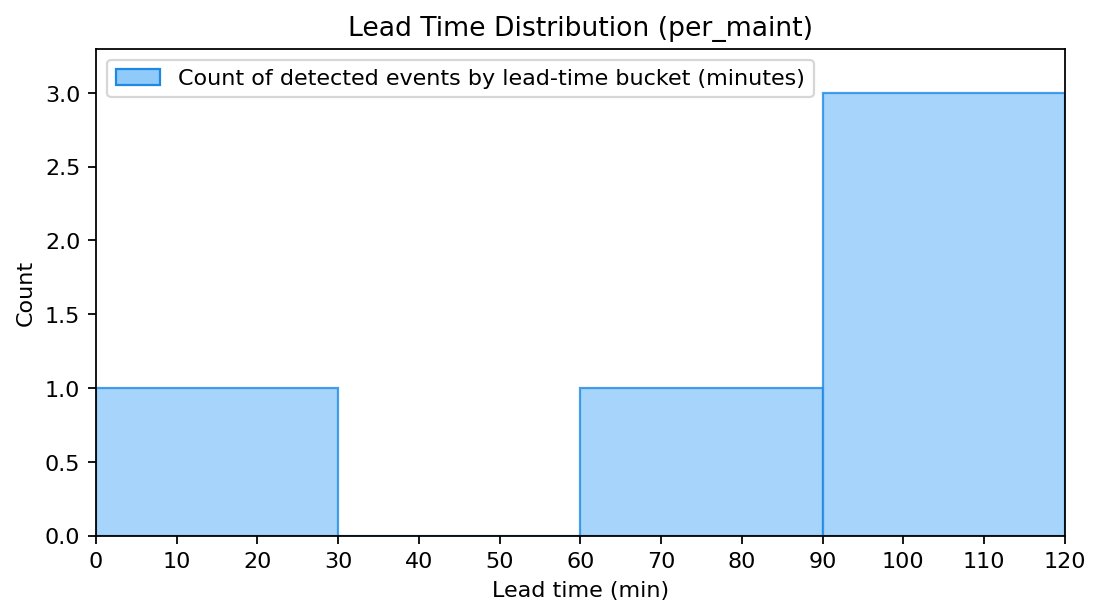
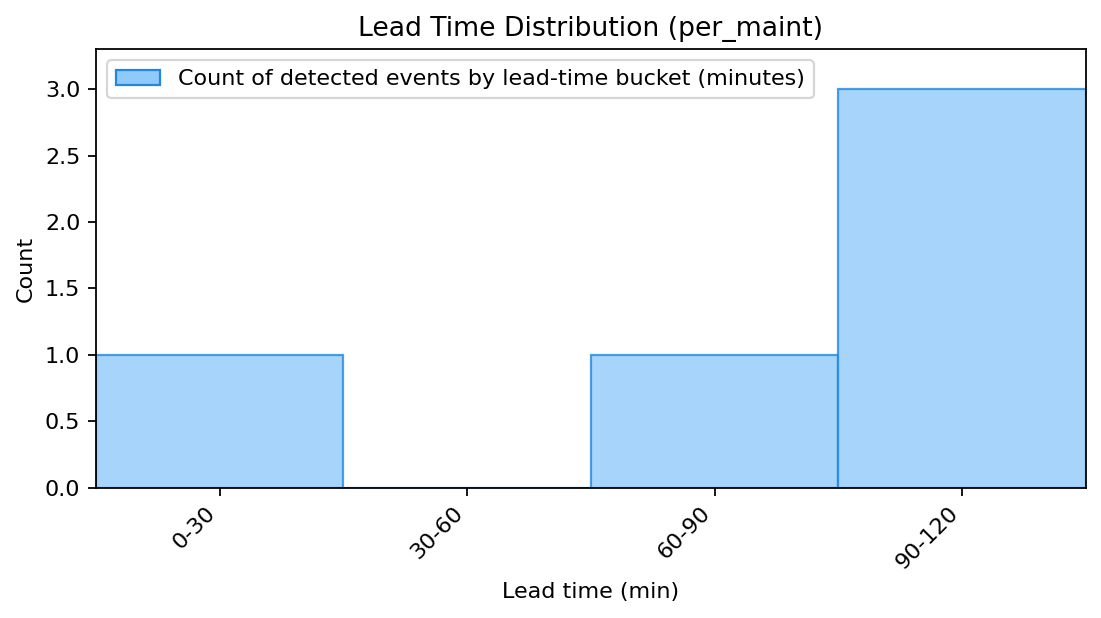
Updated output logs and graphs for easier understanding.

diff --git a/main.py b/main.py
@@ -86,7 +86,7 @@ SAVE_FEATURES_CSV_PATH: Optional[str] = "datasets/metropt3_features.csv"
 # - "single": one global model trained once on an early slice.
 # - "per_maint": per-maintenance models trained on fixed post-maintenance
 #   training days for each cycle (plus an initial pre-W1 model).
-EXPERIMENT_MODE: str = "per_maint"
+EXPERIMENT_MODE: str = "single"
 
 # Rolling window for feature aggregation (e.g., '600s' = 10 minutes).
 ROLLING_WINDOW: str = "60s"
@@ -412,43 +412,51 @@ def _print_event_extra_metrics(label: str, event_results: dict) -> None:
     if ttd.get("mean_ttd") is not None:
         print(
             f"TTD mean={ttd['mean_ttd']:.1f} min (std={ttd['std_ttd']:.1f}, "
-            f"min={ttd['min_ttd']:.1f}, max={ttd['max_ttd']:.1f})"
+            f"min={ttd['min_ttd']:.1f}, max={ttd['max_ttd']:.1f})  |  "
+            f"higher is better (earlier), max={PRE_MAINTENANCE_MINUTES} min"
         )
     else:
-        print("TTD mean=N/A (no detections)")
-    print(f"TTD detected={ttd.get('detected_events', 0)} missed={ttd.get('missed_events', 0)}")
+        print("TTD mean=N/A (no detections)  |  higher is better (earlier)")
+    print(
+        f"TTD detected={ttd.get('detected_events', 0)} "
+        f"missed={ttd.get('missed_events', 0)}  |  higher detected is better"
+    )
 
     if faa.get("first_alarm_accuracy") is not None:
         print(
             f"FAA={faa['first_alarm_accuracy']:.3f} "
-            f"({faa['first_alarm_in_window']}/{faa['tp_events']})"
+            f"({faa['first_alarm_in_window']}/{faa['tp_events']})  |  "
+            f"higher is better (ideal=1.0)"
         )
     else:
-        print("FAA=N/A")
+        print("FAA=N/A  |  higher is better (ideal=1.0)")
 
     if cov:
         print(
             f"Coverage={cov['alarm_coverage_percent']:.2f}% "
-            f"({cov['alarm_points']}/{cov['total_points']})"
+            f"({cov['alarm_points']}/{cov['total_points']})  |  "
+            f"lower is better (ideal≈0%)"
         )
 
     if mtia.get("mtia_minutes") is not None:
         print(
             f"MTIA mean={mtia['mtia_minutes']:.1f} min "
-            f"(std={mtia['std_minutes']:.1f}, intervals={mtia['num_intervals']})"
+            f"(std={mtia['std_minutes']:.1f}, intervals={mtia['num_intervals']})  |  "
+            f"lower is better"
         )
     else:
-        print("MTIA mean=N/A (no alarm intervals)")
+        print("MTIA mean=N/A (no alarm intervals)  |  lower is better")
 
     if far.get("far_per_week") is not None:
         print(
             f"FAR per_day={far['far_per_day']:.3f}  "
             f"per_week={far['far_per_week']:.3f}  "
-            f"FP intervals={far['fp_intervals']}"
+            f"FP intervals={far['fp_intervals']}  |  "
+            f"lower is better (ideal=0)"
         )
 
     if pr:
-        print("PR vs Lead Time:")
+        print("PR vs Lead Time (higher is better):")
         for i, lt in enumerate(pr.get("lead_times", [])):
             print(
                 f"  {lt} min: P={pr['precision'][i]:.3f}, "
@@ -464,7 +472,8 @@ def _print_event_extra_metrics(label: str, event_results: dict) -> None:
                 "NAB: "
                 f"standard={std:.1f} "
                 f"low_fp={low_fp:.1f} "
-                f"low_fn={low_fn:.1f}"
+                f"low_fn={low_fn:.1f}  |  "
+                f"higher is better (ideal=100)"
             )
 
 

diff --git a/plotting.py b/plotting.py
@@ -234,9 +234,10 @@ def plot_lead_time_distribution(
         ax.set_ylabel("Count")
         ax.set_xlim(edges[0], edges[-1])
         ax.set_ylim(0, max(counts_arr) * 1.1 if counts_arr.size else 1.0)
-        tick_start = int(np.floor(edges[0]))
-        tick_end = int(np.ceil(edges[-1]))
-        ax.set_xticks(np.arange(tick_start, tick_end + 1, 10))
+        centers = edges[:-1] + (widths / 2.0)
+        labels = [f"{int(round(edges[i]))}-{int(round(edges[i + 1]))}" for i in range(n)]
+        ax.set_xticks(centers)
+        ax.set_xticklabels(labels, rotation=45, ha="right")
 
     ax.set_title(title or "Lead Time Distribution")
     fig.tight_layout()
